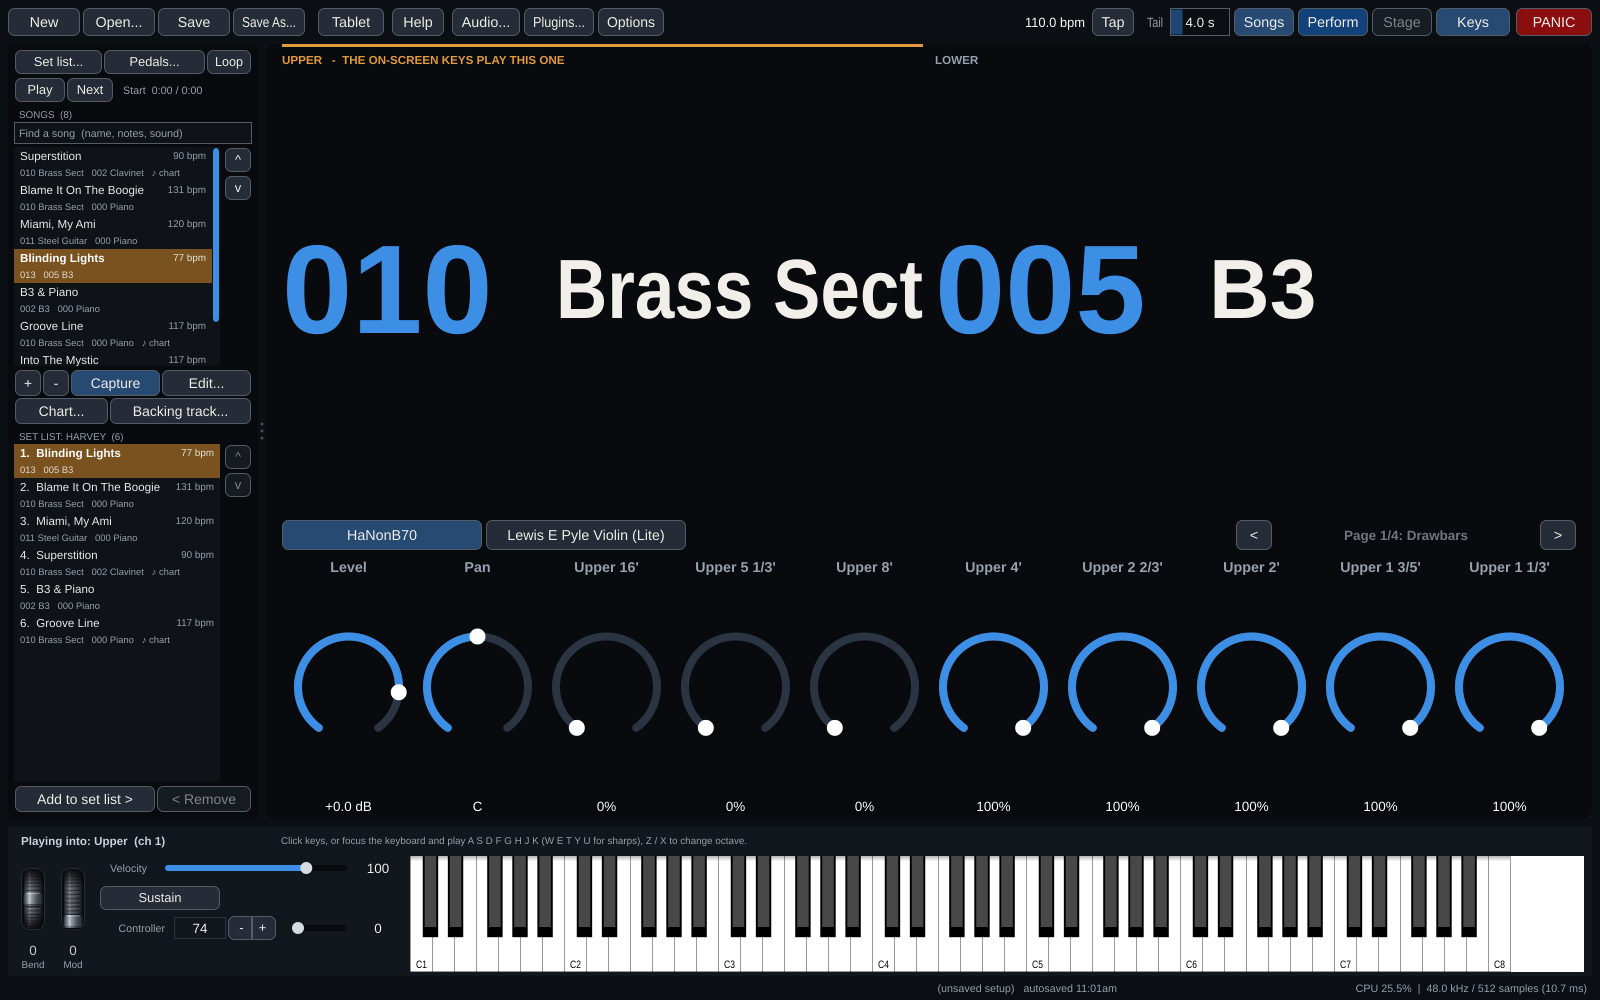
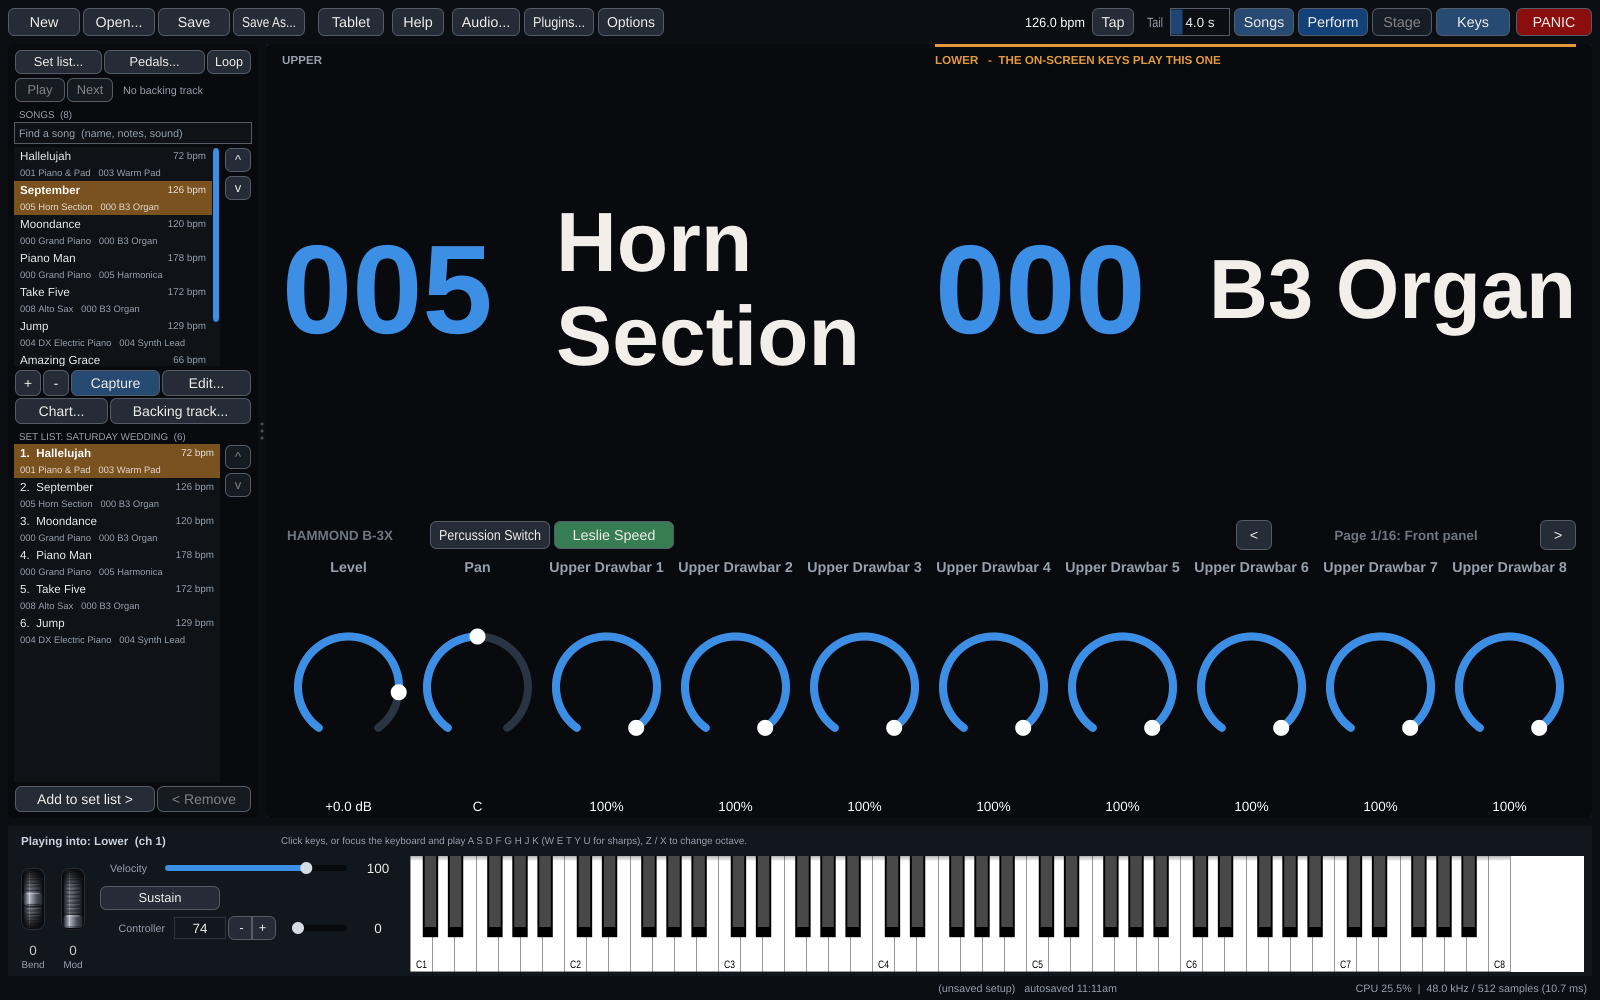
README: screenshots from a demo setup whose programs are what they say
Piano & Pad is a sampled grand with a synth pad over it, Horn Section is
horns with big-band voicings, B3 Organ is a B3; the set list is a wedding's.
The sampled-instrument menu is shown whole: the window it was taken in cut
off its right edge.

diff --git a/README.md b/README.md
@@ -13,7 +13,7 @@ with every knob, drawbar and menu live under your finger. Pull a drawbar on the
 tablet and the organ on stage moves.
 
 <p align="center">
-  <img src="docs/images/stagerig.png" alt="StageRig: songs and a set list with tempos, two keyboards, a program list grouped by kind, a Brass Sect program layering a Windows organ plugin (HaNonB70), with big-band and phrase MIDI effects, over a built-in sampled violin, the Controls panel and the on-screen keyboard" width="900">
+  <img src="docs/images/stagerig.png" alt="StageRig: songs and a wedding set list with tempos, two keyboards (the upper one with a pad controller added), a program list grouped by kind, and a Piano &amp; Pad program: a built-in sampled grand piano with a Windows synth pad layered from C3 up, 9 dB down" width="900">
 </p>
 
 StageRig exists because the live hosts keyboard players rely on -- MainStage,
@@ -252,11 +252,11 @@ plugins, select an input and give it a MIDI device, click a program, press
 in letters a foot high, and under it the page of knobs the keyboard's own knobs
 are on.
 
-![Perform: two keyboards' programs in large type, Brass Sect and B3, and under them the drawbars page the upper keyboard's knobs are on](docs/images/perform-view.png)
+![Perform: Horn Section and B3 Organ in large type, and under them the B3's drawbars, the page the lower keyboard's knobs are on](docs/images/perform-view.png)
 
 With the editing panes shown, **Stage** keeps the performance view above them.
 
-![The Stage view above the editing panes: Brass Sect and Salamander Grand in large type with the drawbar knobs, then songs and the set list, inputs, programs, an instrument with its MIDI effects, and the Controls panel](docs/images/stage-view.png)
+![The Stage view above the editing panes: Horn Section and B3 Organ in large type with the B3's drawbar knobs, then songs and the set list, inputs, the organ programs and the Controls panel](docs/images/stage-view.png)
 
 An instrument's **Knobs** window is what the keyboard's eight knobs turn on it,
 in pages; the layout is the plugin's, so it is the same in every program.
